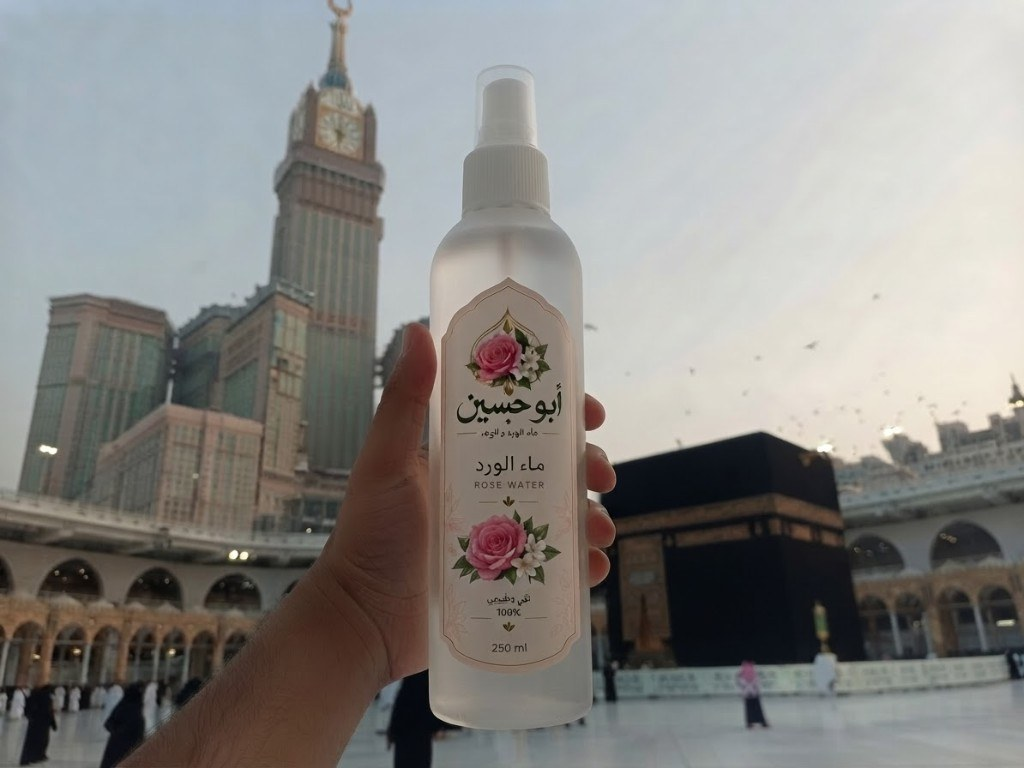
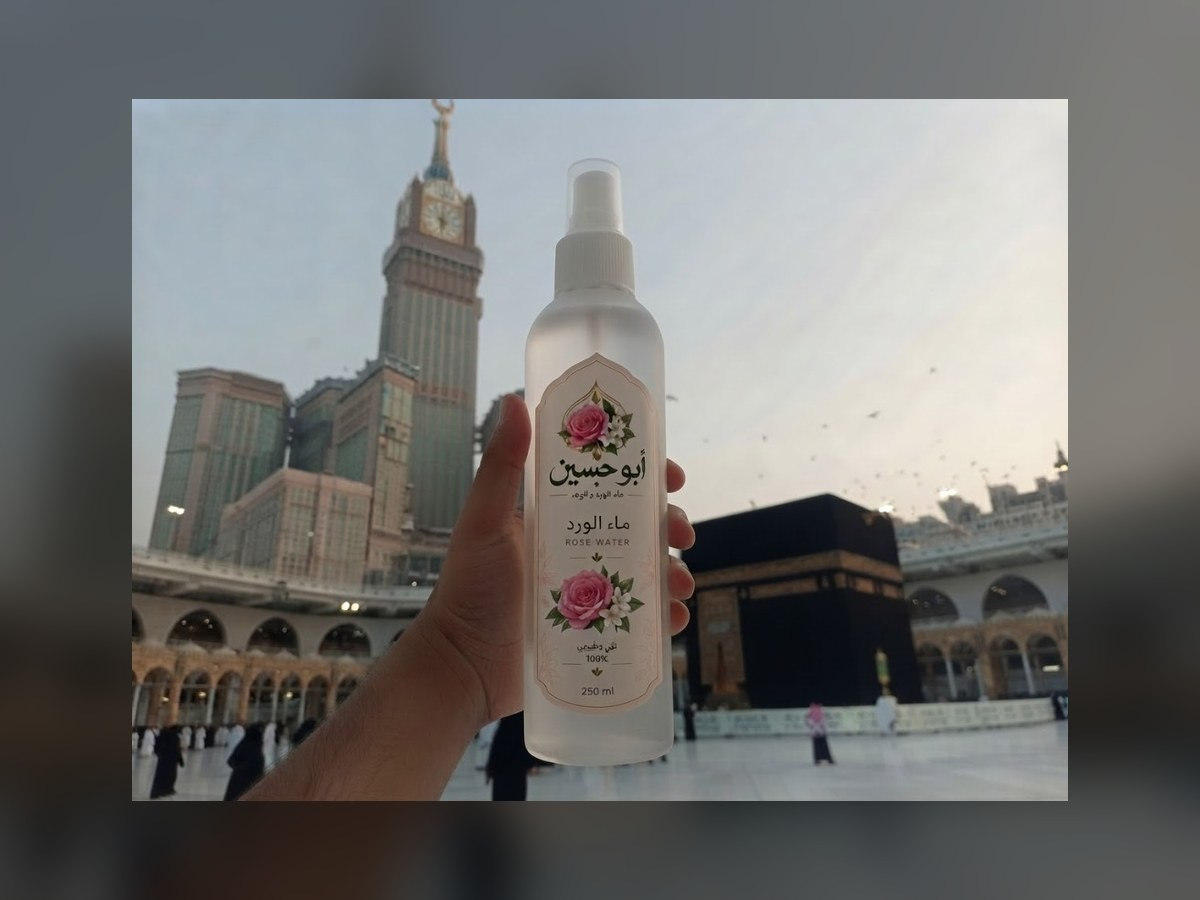
Zoom out Umrah popup image so bottle and Mecca scene show more.

diff --git a/index.html b/index.html
@@ -421,7 +421,7 @@
     <div id="newItemPopup" class="popup-overlay">
         <div class="popup-content wizard-popup umrah-popup">
             <div class="wizard-image-container wizard-photo umrah-popup-media">
-                <img class="wizard-bottle" src="images/promo-umrah-popup.jpg" alt="بخاخ الورد الأصلي للعمرة">
+                <img class="wizard-bottle" src="images/promo-umrah-popup.jpg?v=zoom2" alt="بخاخ الورد الأصلي للعمرة">
                 <div class="wizard-image-badge" data-i18n="nav.umrah">العمرة</div>
             </div>
             <div class="wizard-content">

diff --git a/styles.css b/styles.css
@@ -1559,12 +1559,13 @@ html[dir="ltr"] .popup-close {
 }
 
 .umrah-popup-media {
+    height: 240px;
     background: #1a2812;
 }
 
 .umrah-popup-media .wizard-bottle {
     object-fit: cover;
-    object-position: center 30%;
+    object-position: center center;
     padding: 0;
     background: transparent;
 }
